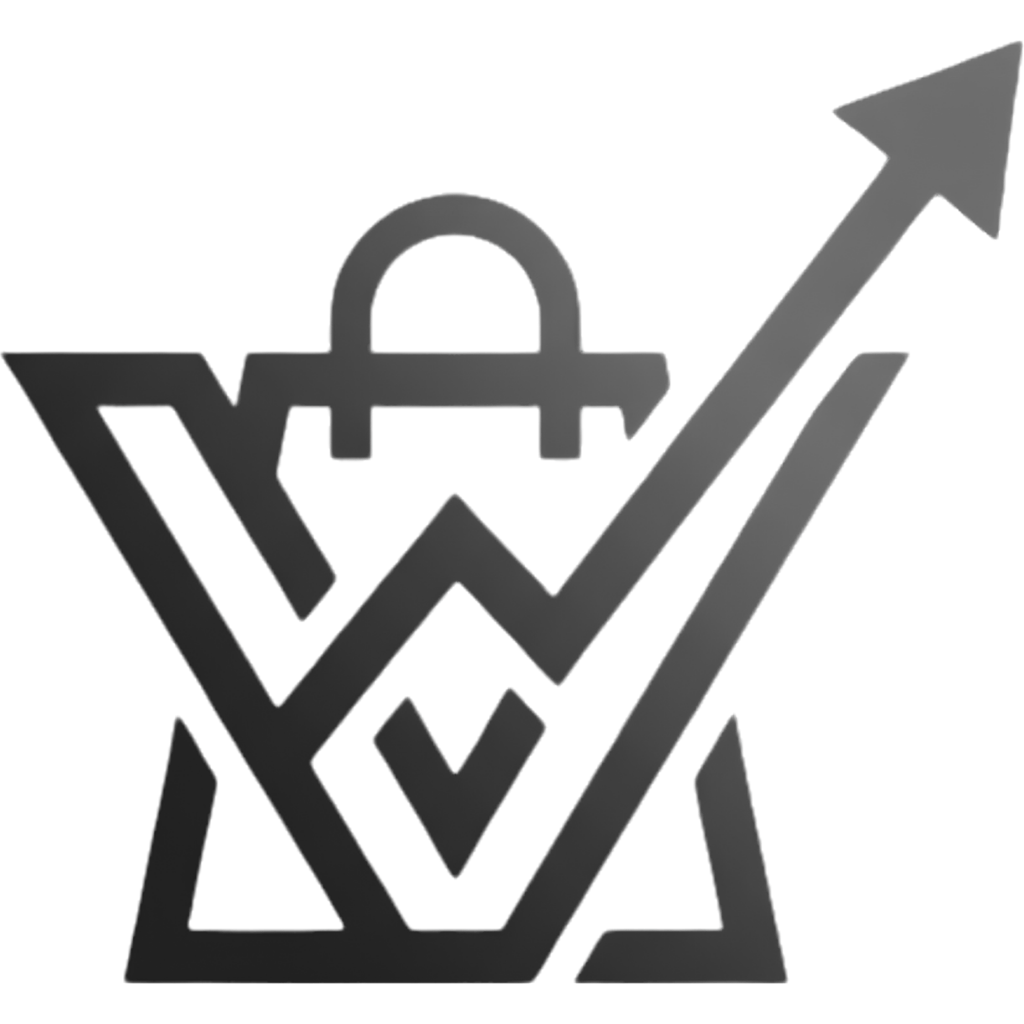
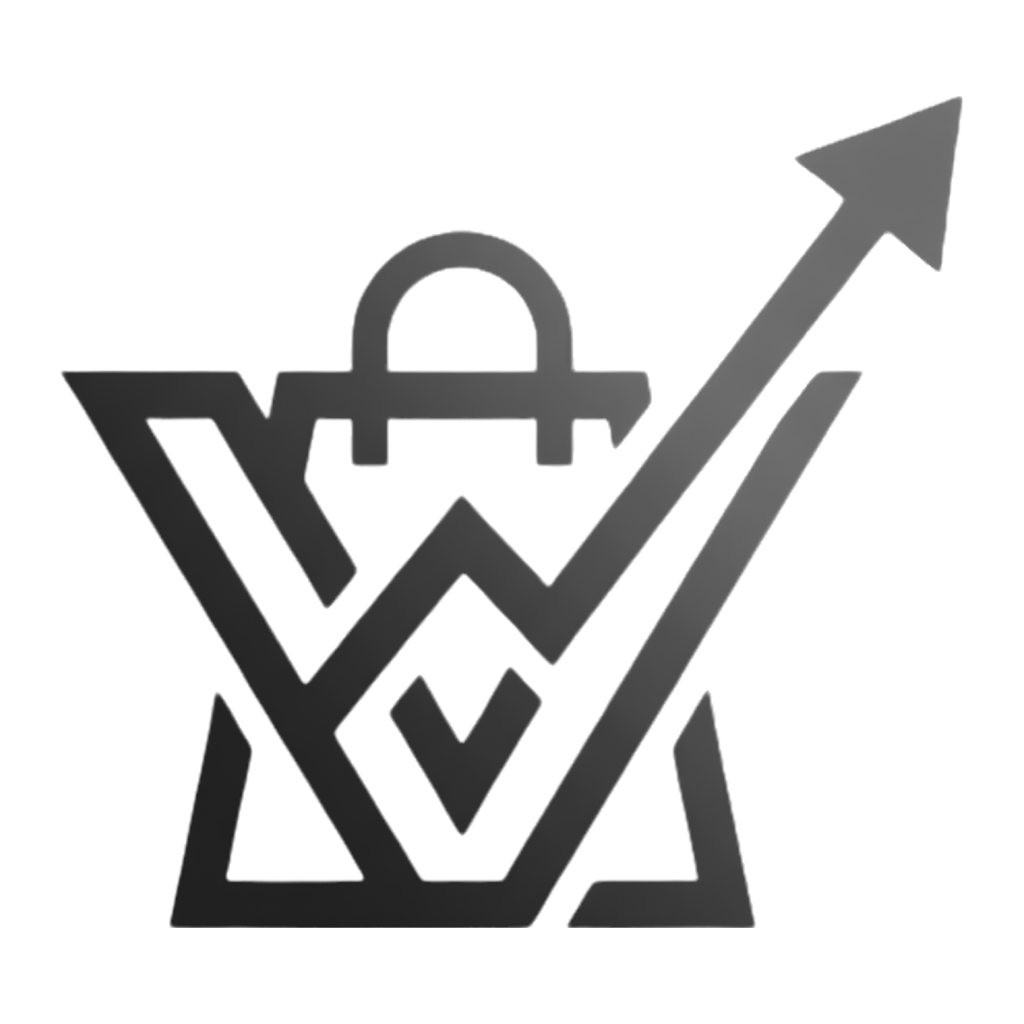
refactor: switch google oauth to native supabase auth

diff --git a/src/routes/auth.tsx b/src/routes/auth.tsx
@@ -1,7 +1,6 @@
 import { createFileRoute, useNavigate, Link } from "@tanstack/react-router";
 import { useEffect, useState } from "react";
 import { supabase } from "@/integrations/supabase/client";
-import { lovable } from "@/integrations/lovable";
 import { Button } from "@/components/ui/button";
 import { Input } from "@/components/ui/input";
 import { Label } from "@/components/ui/label";
@@ -29,16 +28,16 @@ function AuthPage() {
 
   const onGoogle = async () => {
     setLoading(true);
-    const res = await lovable.auth.signInWithOAuth("google", {
-      redirect_uri: window.location.origin + "/auth",
+    const { error } = await supabase.auth.signInWithOAuth({
+      provider: "google",
+      options: {
+        redirectTo: window.location.origin + "/auth",
+      },
     });
-    if (res.error) {
-      toast.error("Falha no login com Google");
+    if (error) {
+      toast.error("Falha no login com Google: " + error.message);
       setLoading(false);
-      return;
     }
-    if (res.redirected) return;
-    navigate({ to: "/dashboard" });
   };
 
   const onSubmit = async (e: React.FormEvent) => {